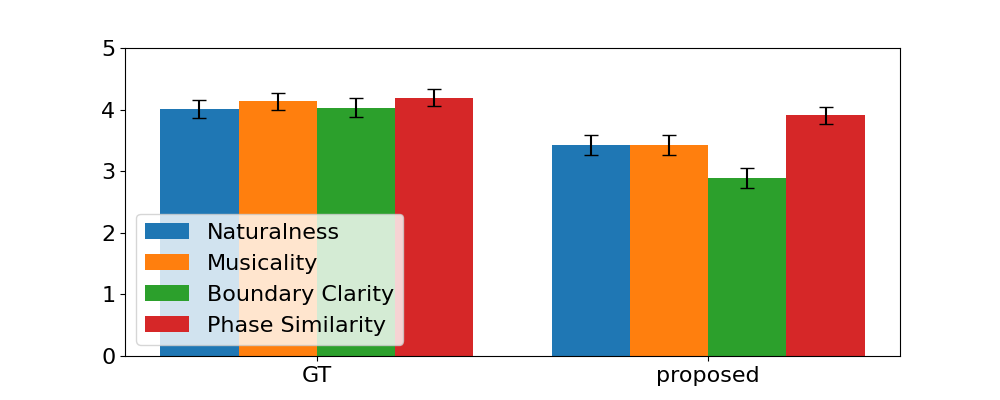
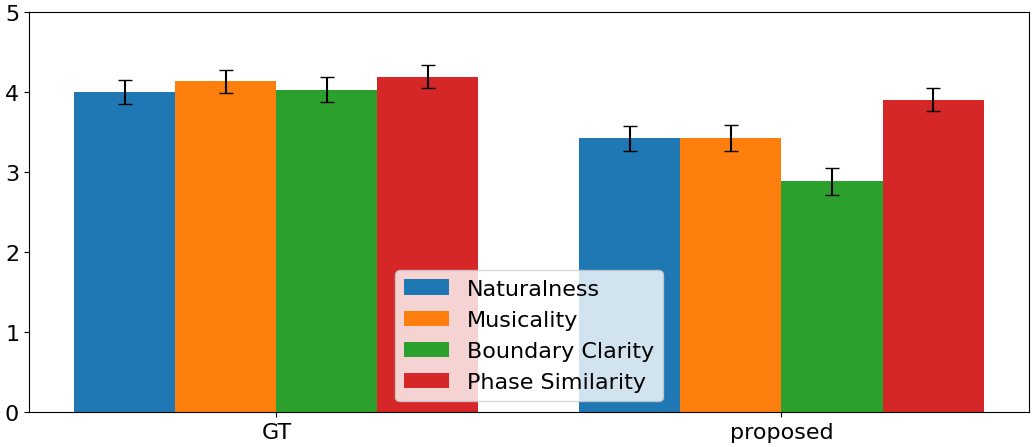
余白を削減

diff --git a/results/analysis.py b/results/analysis.py
@@ -111,7 +111,11 @@ def graph(grouped_values, filename, type_="mos1"):
     ax.legend(fontsize=FONT_SIZE)
 
     # グラフの表示
-    plt.savefig(filename)
+    # dpi = 100  # 図の解像度
+    # pixel_padding = 5  # ピクセル単位の余白
+    # inch_padding = pixel_padding / dpi  # ピクセルをインチに変換
+    fig.subplots_adjust(left=0, right=1, top=1, bottom=0)
+    plt.savefig(filename, bbox_inches="tight", pad_inches=0.05)
     plt.close("all")
 
 
